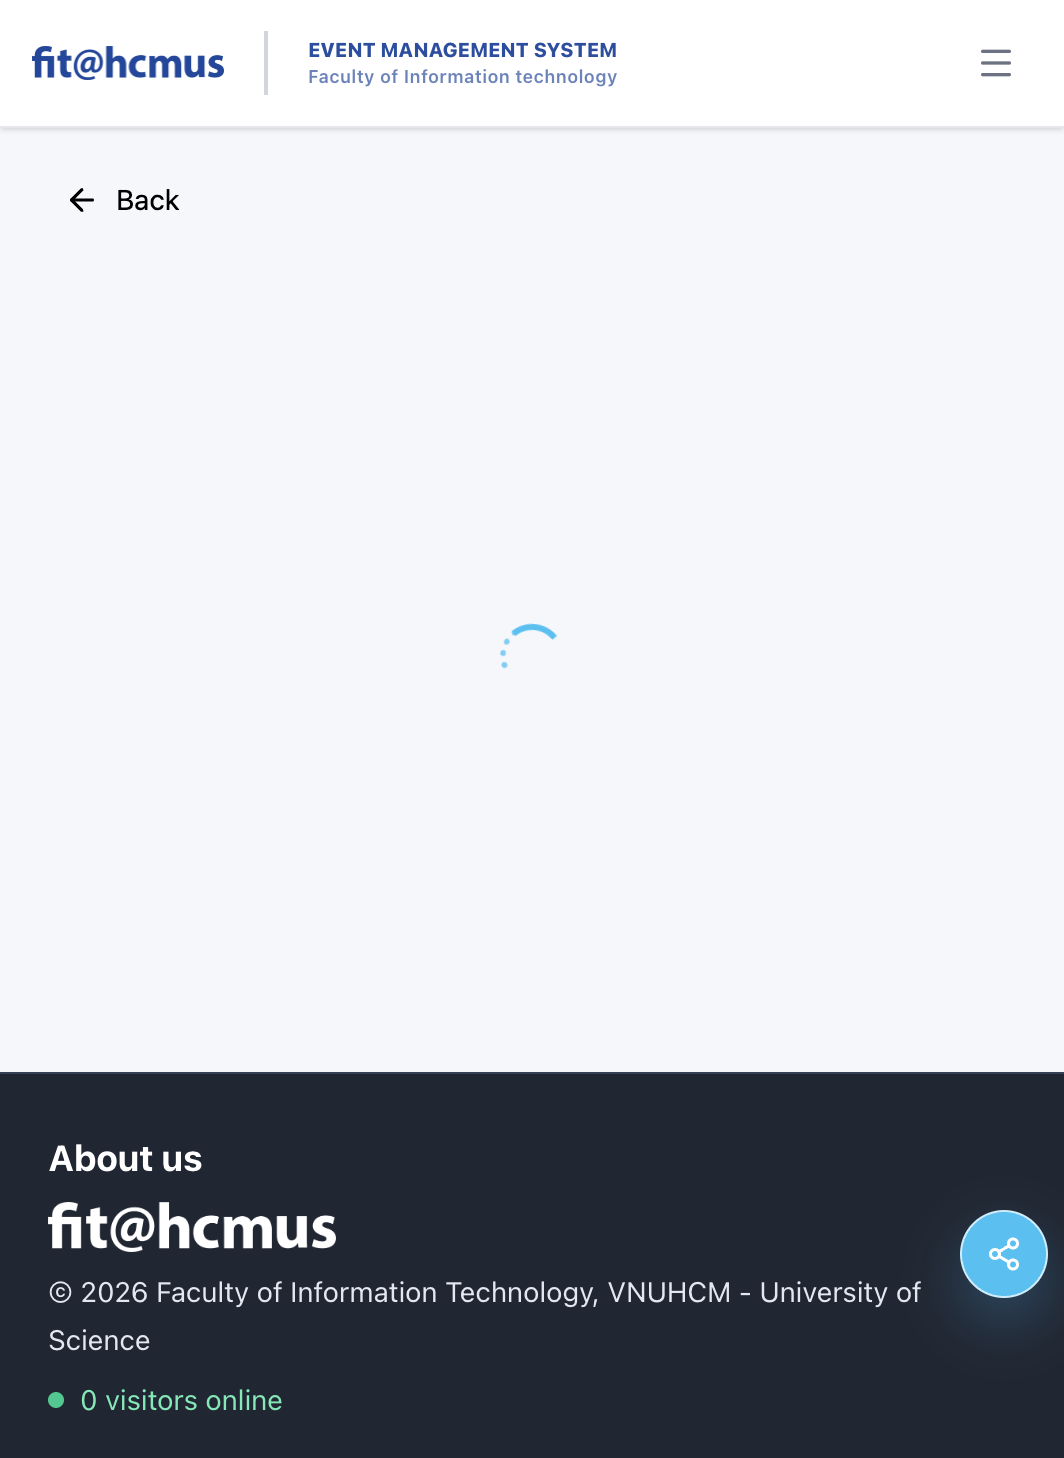
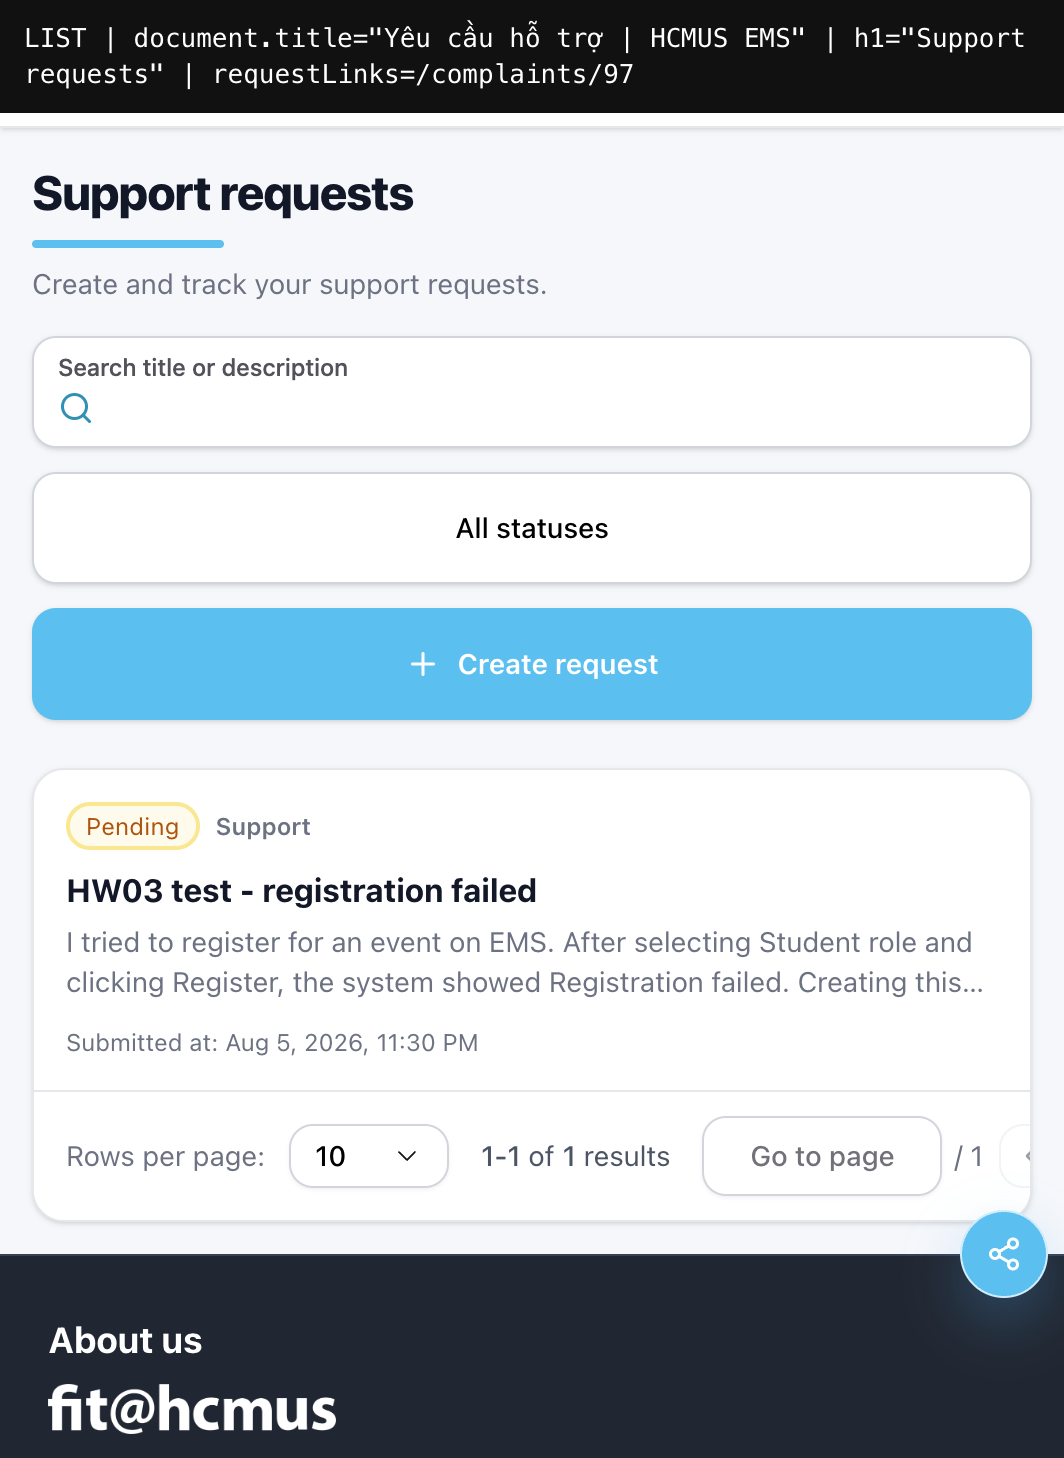
fix(hw03): correct D2 counts and list i18n evidence
Align summary to 26/4/10 and recapture loaded /complaints list with
title overlay showing #97 row.

diff --git a/submission/evidence/t1b/D2_execution.md b/submission/evidence/t1b/D2_execution.md
@@ -13,9 +13,9 @@
 
 | Result | Count |
 |---|---:|
-| Passed | 24 |
-| Failed | 5 |
-| N/A | 11 |
+| Passed | 26 |
+| Failed | 4 |
+| N/A | 10 |
 | **Total** | **40** |
 
 ## Execution matrix
@@ -27,7 +27,7 @@
 | IA01-03 | IA-01 | Pass | List H1 “Support requests”; detail title uses issue subject | — |
 | IA01-04 | IA-01 | Pass | Pending badge + body text readable | — |
 | IA01-05 | IA-01 | Pass | Create request CTA / Back consistent with EMS patterns | — |
-| IA01-06 | IA-01 | Fail | List `document.title` VI (`Yêu cầu hỗ trợ`) while H1/UI chrome EN | `D2/IA01-06.png` |
+| IA01-06 | IA-01 | Fail | List `document.title` VI (`Yêu cầu hỗ trợ`) while H1 “Support requests” EN; overlay + `#97` row visible | `D2/IA01-06.png` |
 | IA01-07 | IA-01 | Pass | Empty list shows “No requests yet” + guidance (observed before seed) | — |
 | IA01-08 | IA-01 | Pass | List/detail load without broken layout | — |
 | IA01-09 | IA-01 | Pass | Desktop list/detail usable without overflow | — |
